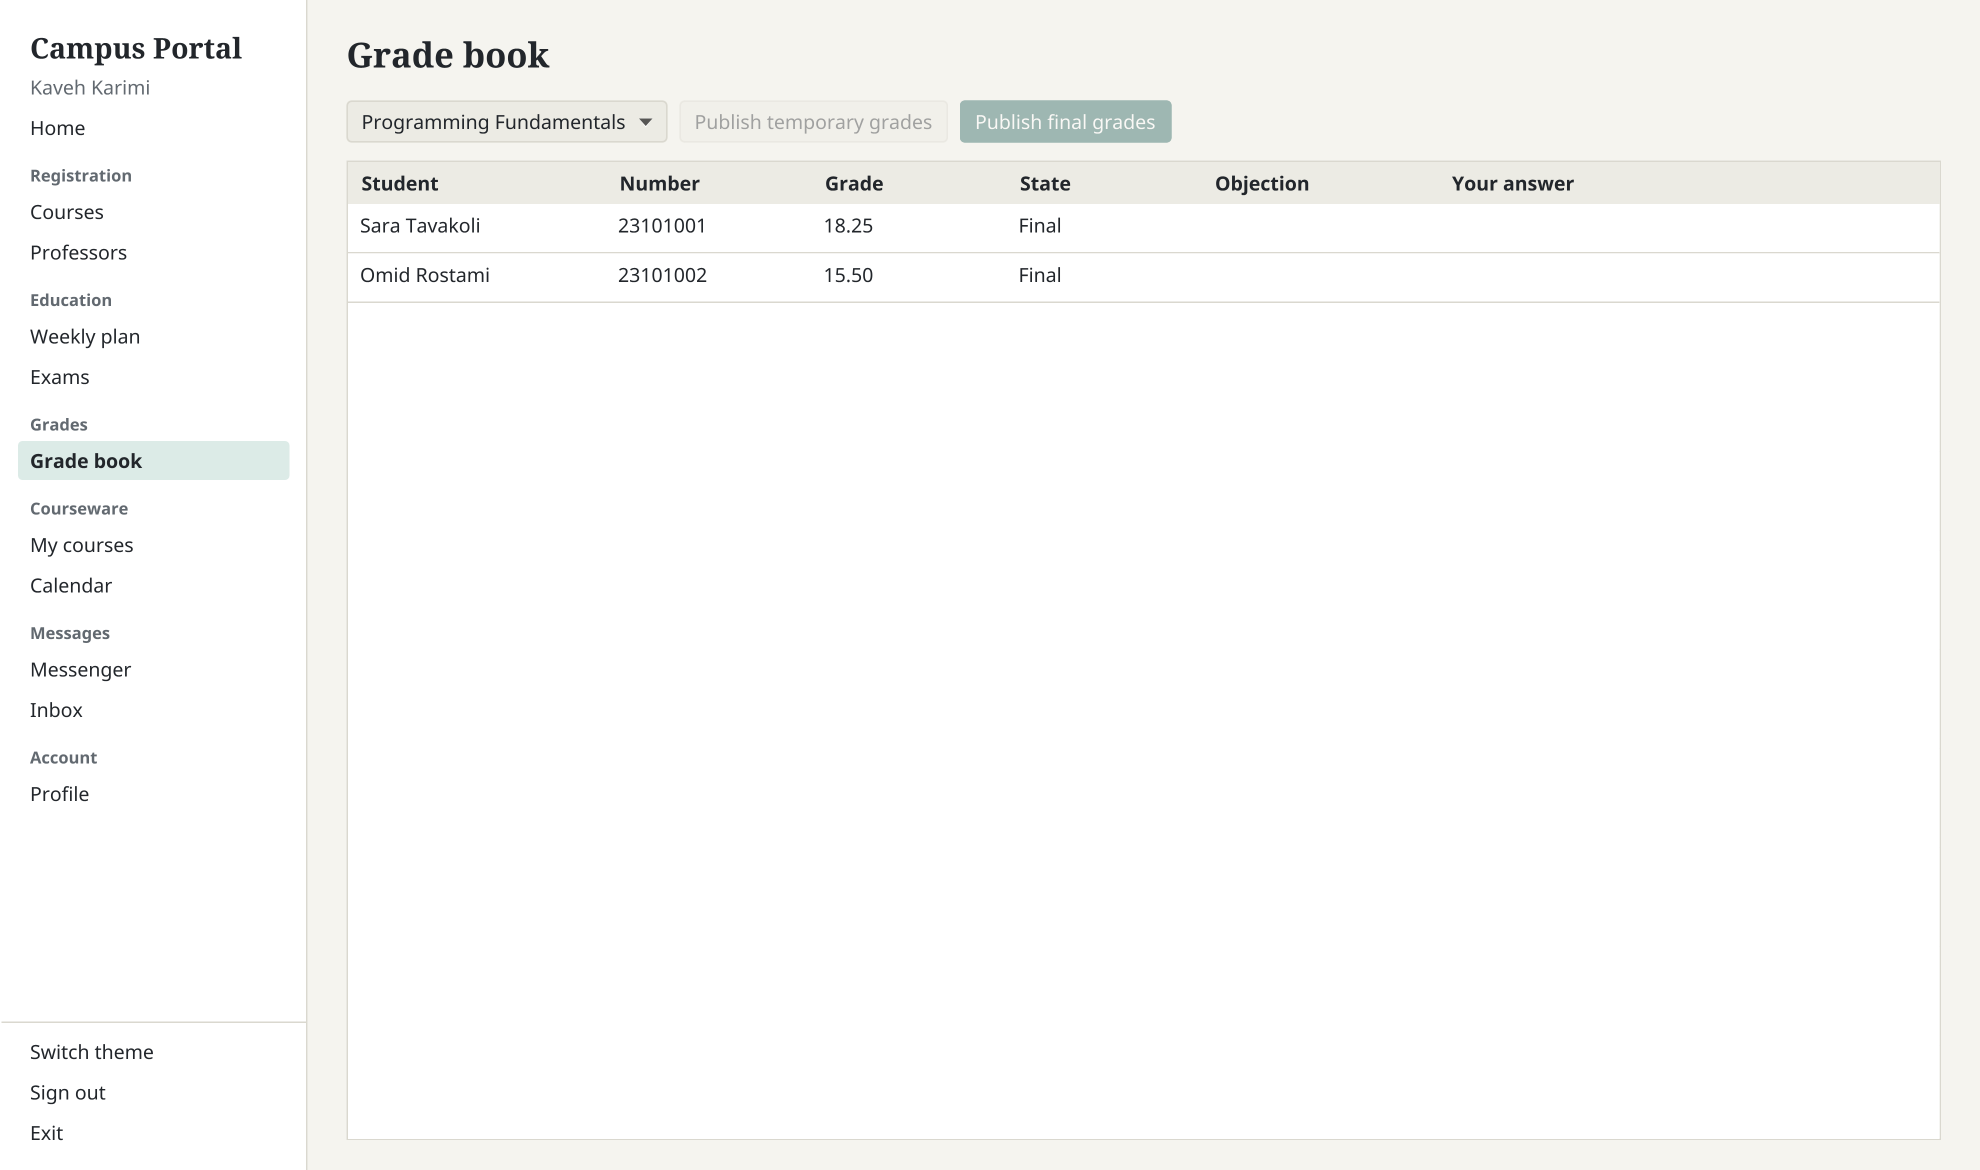
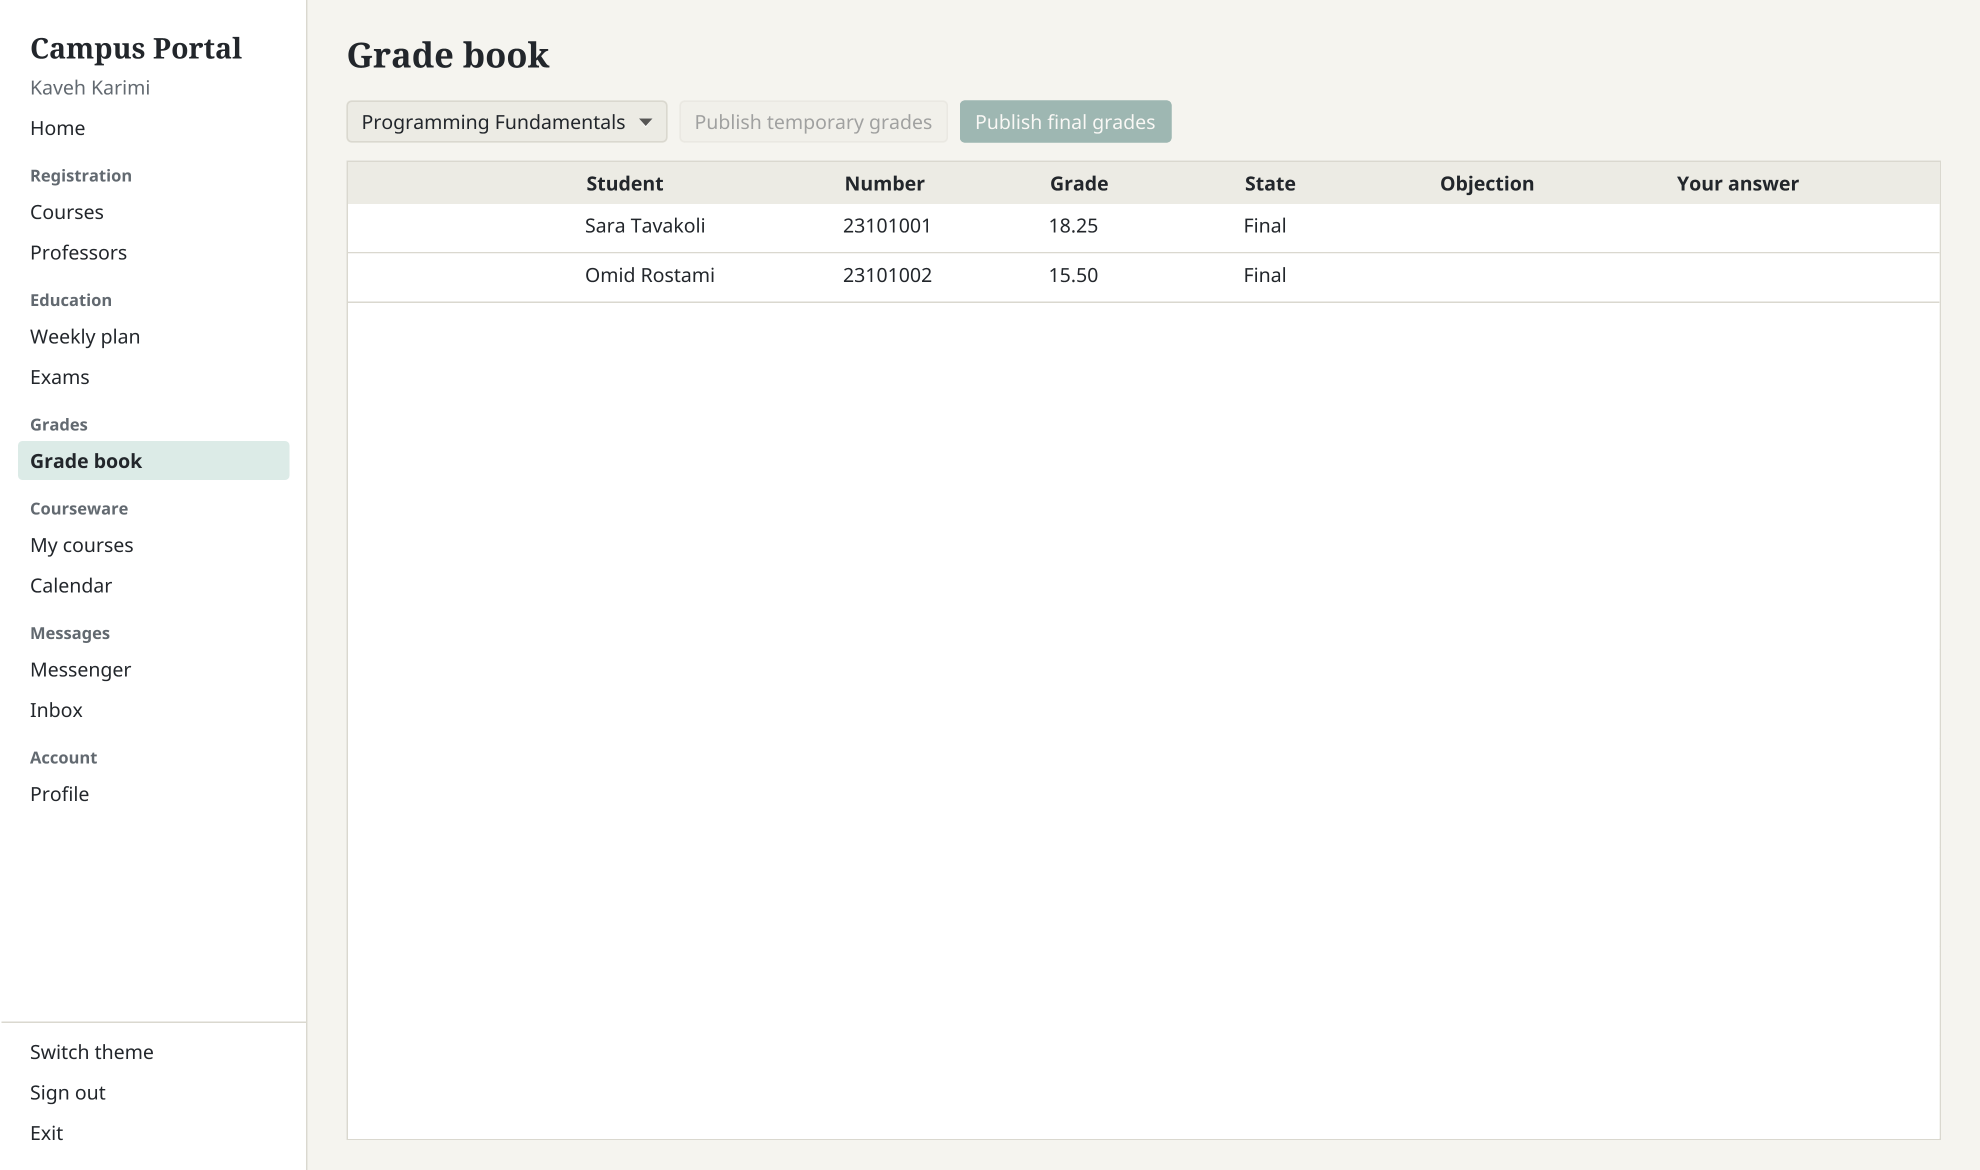
Let tables scroll sideways instead of cutting text off
Row actions move to the first column so they stay in reach.

diff --git a/campus-portal/client/src/main/resources/ui/portal.css b/campus-portal/client/src/main/resources/ui/portal.css
@@ -177,7 +177,7 @@
 
 .scroll-bar { -fx-background-color: transparent; }
 .scroll-bar .track, .scroll-bar .track-background { -fx-background-color: transparent; }
-.scroll-bar .thumb { -fx-background-color: -line; -fx-background-radius: 4; -fx-background-insets: 2; }
+.scroll-bar .thumb { -fx-background-color: derive(-muted, 25%); -fx-background-radius: 4; -fx-background-insets: 2; }
 .scroll-bar .increment-button, .scroll-bar .decrement-button { -fx-padding: 0; -fx-background-color: transparent; }
 .scroll-bar .increment-arrow, .scroll-bar .decrement-arrow { -fx-padding: 0; -fx-shape: null; }
 .corner { -fx-background-color: transparent; }

diff --git a/campus-portal/client/src/main/java/ui/DataTable.java b/campus-portal/client/src/main/java/ui/DataTable.java
@@ -18,7 +18,7 @@ import java.util.function.Consumer;
 import java.util.function.Function;
 import java.util.function.Predicate;
 
-/** A table of server rows that keeps its selection and scroll position when refreshed. */
+/** A table of server rows that keeps its selection when refreshed. Row actions come first so they never scroll away. */
 public final class DataTable {
     public record Action(String label, Predicate<Map<String, String>> visible, Consumer<Map<String, String>> run,
                          boolean danger) {
@@ -38,7 +38,6 @@ public final class DataTable {
     private static final double CHARACTER_WIDTH = 7.1;
     private static final double CELL_PADDING = 18;
     private static final double MAX_COLUMN_WIDTH = 430;
-    private static final double MIN_COLUMN_WIDTH = 48;
     private static final double SCROLLBAR_ROOM = 18;
 
     private final Map<TableColumn<Map<String, String>, String>, Function<Map<String, String>, String>> textColumns =
@@ -83,7 +82,7 @@ public final class DataTable {
                 setGraphic(row == null ? null : buttons(row, actions));
             }
         });
-        table.getColumns().add(column);
+        table.getColumns().add(0, column);
         return this;
     }
 
@@ -116,21 +115,15 @@ public final class DataTable {
         }
     }
 
-    /** Sizes columns to their contents, sharing spare width or shrinking them all so the actions stay in view. */
+    /** Sizes columns to their full contents. Spare width is shared out; otherwise the table scrolls sideways. */
     private void fitColumns() {
         double used = table.getColumns().stream().filter(column -> !textColumns.containsKey(column))
                 .mapToDouble(TableColumn::getPrefWidth).sum();
         Map<TableColumn<Map<String, String>, String>, Double> natural = new LinkedHashMap<>();
         textColumns.forEach((column, value) -> natural.put(column, naturalWidth(column, value)));
         double total = natural.values().stream().mapToDouble(Double::doubleValue).sum();
-        double available = table.getWidth() - SCROLLBAR_ROOM - used;
-        if (available <= 0) {
-            return;
-        }
-        double spare = available - total;
-        double shrink = spare < 0 ? available / total : 1;
-        natural.forEach((column, width) -> column.setPrefWidth(spare < 0
-                ? Math.max(MIN_COLUMN_WIDTH, width * shrink) : width + spare / natural.size()));
+        double spare = Math.max(0, table.getWidth() - SCROLLBAR_ROOM - used - total);
+        natural.forEach((column, width) -> column.setPrefWidth(width + spare / natural.size()));
     }
 
     private double naturalWidth(TableColumn<Map<String, String>, String> column,
